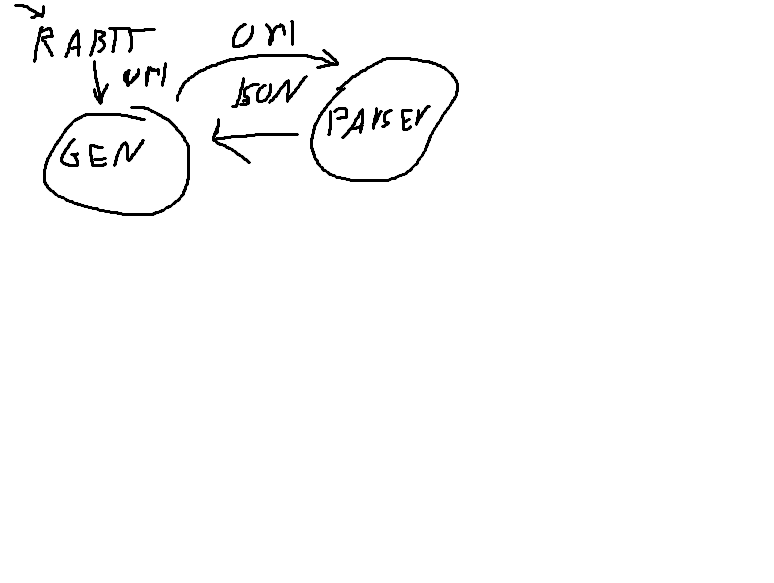
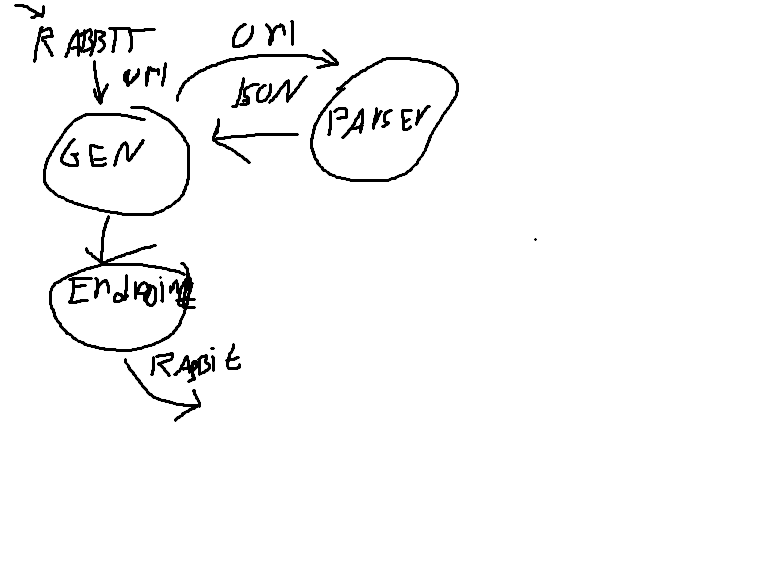
configurate rabbitmq queue between services

Changed region(s): [[0.062, 0.3705, 0.3101, 0.741], [0.093, 0.0309, 0.124, 0.0926]]

diff --git a/link-to-rss/app/rabbitmq/rabbitmq.py b/link-to-rss/app/rabbitmq/rabbitmq.py
@@ -2,6 +2,7 @@ import json
 import asyncio
 import aio_pika
 from aio_pika.abc import AbstractConnection, AbstractChannel, AbstractQueue, AbstractExchange
+from app.rrs_generator.rrs_generator_service import generate_rss_for_url
 
 class RabbitMQConsumer:
     def __init__(self, rabbit_url: str):
@@ -35,9 +36,7 @@ class RabbitMQConsumer:
         queue = await self.connect()
      
         await queue.consume(callback_func)
-        print("[*] Waiting for messages. To exit press CTRL+C")
-   
-        await asyncio.Future() 
+        
     
     async def publish_json(self, exchange_name: str, routing_key: str, data: dict):
         if not self.channel:
@@ -53,23 +52,35 @@ class RabbitMQConsumer:
         if self.connection:
             await self.connection.close()
 
-async def process_message(message: aio_pika.abc.AbstractIncomingMessage):
-    async with message.process():
-     
-        
-        body = message.body.decode()
-        data = json.loads(body)
-        
-        print(f"[x] Получено сообщение: {data}")
-        print(f"ID: {data.get('id')}")
-        print(f"Событие: {data.get('event')}")
-        print(f"Заголовок: {data.get('title')}")
-        
-        
-        url = data.get('url') or data.get('link')
-        if url:
-            print(f"[*] Получен URL из очереди: {url}")
-           
-        else:
-            print("[!] В сообщении не найден URL")
+    async def process_message(self, message: aio_pika.abc.AbstractIncomingMessage):
+        async with message.process():
+            body = message.body.decode()
+            data = json.loads(body)
+            
+            print(f"[x] Получено сообщение: {data}")
+            print(f"ID: {data.get('id')}")
+            print(f"Событие: {data.get('event')}")
+            
+            url = data.get('url') or data.get('link')
+            if url:
+                print(f"[*] Получен URL из очереди: {url}")
+                try:
+            
+                    rss_xml = await generate_rss_for_url(url)
+                    
+                    await self.publish_json(
+                        exchange_name="rss.exchange",
+                        routing_key="rss.result",
+                        data={
+                            "id": data.get("id"),
+                            "url": url,
+                            "xml": rss_xml,
+                            "status": "success"
+                        }
+                    )
+                    print(f"[*] Успешно сгенерирован и отправлен RSS для {url}")
+                except Exception as e:
+                    print(f"[!] Ошибка при обработке URL {url}: {e}")
+            else:
+                print("[!] В сообщении не найден URL")
 

diff --git a/backend/rabbitmq/rabbitmq.py b/backend/rabbitmq/rabbitmq.py
@@ -7,13 +7,19 @@ import json
 
 
 
+
+pending_requests = {}
+
 class RabbitMQ:
     def __init__(self, rabbit_url:str):
         self.connection : AbstractConnection = None
         self.rabbit_url = rabbit_url
         self.URL_GENERATOR_EXCHANGE = "rss.exchange"
         self.URL_GENERATOR_QUEUE = "rss.tasks.queue"
+        self.RESULT_QUEUE = "rss.result.queue"
         self.URL_GENERATOR_ROUTING_KEY = "rss.task.convert"
+        self.RESULT_ROUTING_KEY = "rss.result"
+        
     
     async def connect(self) -> AbstractConnection:
         self.connection = await aio_pika.connect_robust(self.rabbit_url)
@@ -34,12 +40,43 @@ class RabbitMQ:
         await queue.bind(exchange, routing_key=self.URL_GENERATOR_ROUTING_KEY)
         return queue
 
+
+    async def declare_result_queue(
+        self,
+        channel: AbstractChannel,
+        exchange: AbstractExchange,
+    ) -> AbstractQueue:
+        queue = await channel.declare_queue(self.RESULT_QUEUE, durable=True)
+        await queue.bind(exchange, routing_key=self.RESULT_ROUTING_KEY)
+        return queue
+
+        
     async def publish_json(self, exchange: AbstractExchange, routing_key: str, data: dict):
         message = aio_pika.Message(
             body=json.dumps(data).encode(),
             content_type="application/json"
         )
         await exchange.publish(message, routing_key=routing_key)
+
+
+    async def start_listening(self, channel: AbstractChannel, exchange: AbstractExchange, callback_func):
+        queue = await self.declare_result_queue(channel, exchange)
+        await queue.consume(callback_func)
+
+    async def process_result_message(self, message: aio_pika.abc.AbstractIncomingMessage):
+        async with message.process():
+            body = message.body.decode()
+            data = json.loads(body)
+            task_id = data.get('id')
+            xml_content = data.get('xml')
+            print(f"[x] Backend received result for URL: {data.get('url')} (id: {task_id})")
+            
+            if task_id in pending_requests:
+                future = pending_requests[task_id]
+                if not future.done():
+                    future.set_result(xml_content)
+            else:
+                print(f"[!] No pending request found for id {task_id}")
     
     async def close(self):
         if self.connection:

diff --git a/backend/app/api_v1/rss_url.py b/backend/app/api_v1/rss_url.py
@@ -1,0 +1,65 @@
+from fastapi import HTTPException, status
+from uuid import uuid4
+from app.core.config import settings
+from app.crud.post import create_post_crud, get_all_posts_crud
+from fastapi import APIRouter, Depends, Request
+from app.core.database import db
+from app.core.models import User
+from sqlalchemy.ext.asyncio import AsyncSession
+from app.schemas.post import PostSchema
+from typing import Annotated
+from rabbitmq.rabbitmq import RabbitMQ
+from app.auth.dependencies import get_current_user
+from app.utils.url_validator import is_valid_url
+import asyncio
+from rabbitmq.rabbitmq import pending_requests
+from fastapi.responses import Response
+
+
+rabbitmq = RabbitMQ(settings.RABBIT_URL)
+
+router = APIRouter(prefix="/generate-rrs-from-url", tags=["RSS-generator"])
+
+from pydantic import BaseModel
+
+class UrlRequest(BaseModel):
+    url: str
+
+@router.post('/send-url-for-generate-rss')
+async def send_url_to_generator_service(
+    session: Annotated[AsyncSession, Depends(db.session_getter)],
+    # user: Annotated[User, Depends(get_current_user)],
+    body: UrlRequest,
+    request: Request
+):
+
+
+    if not is_valid_url(body.url):
+        raise HTTPException(status.HTTP_400_BAD_REQUEST, detail = "Не подходящий URL")
+    task_id = str(uuid4())
+    event_data = {
+        "id": task_id,
+        "event":"url.generate.rrs",
+        "url": body.url
+    }
+
+ 
+    loop = asyncio.get_running_loop()
+    future = loop.create_future()
+    pending_requests[task_id] = future
+
+    await rabbitmq.publish_json(
+        exchange=request.app.state.URL_GENERATOR_EXCHANGE,
+        routing_key = rabbitmq.URL_GENERATOR_ROUTING_KEY,
+        data=event_data
+    )
+
+    try:
+       
+        xml_content = await asyncio.wait_for(future, timeout=30.0)
+        return Response(content=xml_content, media_type="application/xml")
+    except asyncio.TimeoutError:
+        raise HTTPException(status.HTTP_504_GATEWAY_TIMEOUT, detail="Timeout waiting for generator service")
+    finally:
+        pending_requests.pop(task_id, None)
+

diff --git a/backend/main.py b/backend/main.py
@@ -3,6 +3,7 @@ from fastapi import FastAPI
 from contextlib import asynccontextmanager
 from fastapi.middleware.cors import CORSMiddleware
 from fastapi.responses import HTMLResponse, Response
+import asyncio
 import os
 
 from prometheus_fastapi_instrumentator import Instrumentator
@@ -28,6 +29,7 @@ from app.api_v1.subscribtion import router as sub_router
 from app.api_v1.parser import router as parser_router
 from app.Deps.deps import router as deps_router
 from app.api_v1.admin import router as admin_router
+from app.api_v1.rss_url import router as rss_generator_router
 
 rabbitmq = RabbitMQ(settings.RABBIT_URL)
 
@@ -37,8 +39,10 @@ async def lifespan(app:FastAPI):
     channel = await connection.channel()
     url_generator_exchange = await rabbitmq.declare_url_generator_exchange(channel)
     app.state.URL_GENERATOR_EXCHANGE = url_generator_exchange
+    asyncio.create_task(rabbitmq.start_listening(channel, url_generator_exchange, rabbitmq.process_result_message))
     
     yield
+
     await connection.close()
 
 app = FastAPI(lifespan=lifespan)
@@ -106,6 +110,7 @@ app.include_router(sub_router)
 app.include_router(parser_router)
 app.include_router(deps_router)
 app.include_router(admin_router)
+app.include_router(rss_generator_router)
 
 admin.add_view(UserAdmin)
 admin.add_view(PostAdmin)

diff --git a/backend/app/api_v1/post.py b/backend/app/api_v1/post.py
@@ -11,7 +11,7 @@ from rabbitmq.rabbitmq import RabbitMQ
 
 from app.auth.dependencies import get_current_user
 
-router = APIRouter(prefix='/api/posts', tags=['Posts'])
+router = APIRouter(prefix='/posts', tags=['Posts'])
 
 rabbitmq = RabbitMQ(settings.RABBIT_URL)
 
@@ -33,16 +33,16 @@ async def create_post(
 ):
     created_post = await create_post_crud(session=session, post=post, user_id=current_user.id)
 
-    event_data ={
-            "id": str(uuid4()),
-            "event": "post.create",
-            "title": created_post.title,
-           }
+    # event_data ={
+    #         "id": str(uuid4()),
+    #         "event": "post.create",
+    #         "title": created_post.title,
+    #        }
 
-    await rabbitmq.publish_json(
-        exchange=request.app.state.URL_GENERATOR_EXCHANGE,
-        routing_key=rabbitmq.URL_GENERATOR_ROUTING_KEY,
-        data=event_data
-    )
+    # await rabbitmq.publish_json(
+    #     exchange=request.app.state.URL_GENERATOR_EXCHANGE,
+    #     routing_key=rabbitmq.URL_GENERATOR_ROUTING_KEY,
+    #     data=event_data
+    # )
     return created_post
     

diff --git a/link-to-rss/main.py b/link-to-rss/main.py
@@ -2,7 +2,7 @@ from fastapi import FastAPI
 import uvicorn
 from contextlib import asynccontextmanager
 import asyncio
-from app.rabbitmq.rabbitmq import RabbitMQConsumer, process_message
+from app.rabbitmq.rabbitmq import RabbitMQConsumer
 from app.core.config import settings
 from app.api_v1.get_rrs import router as rrs_router
 
@@ -12,7 +12,7 @@ rabbitmq = RabbitMQConsumer(settings.RABBIT_URL)
 @asynccontextmanager
 async def lifespan(app: FastAPI):
     connection = await rabbitmq.connect()
-    asyncio.create_task(rabbitmq.start_listening(process_message))
+    asyncio.create_task(rabbitmq.start_listening(rabbitmq.process_message))
     yield
 
 
